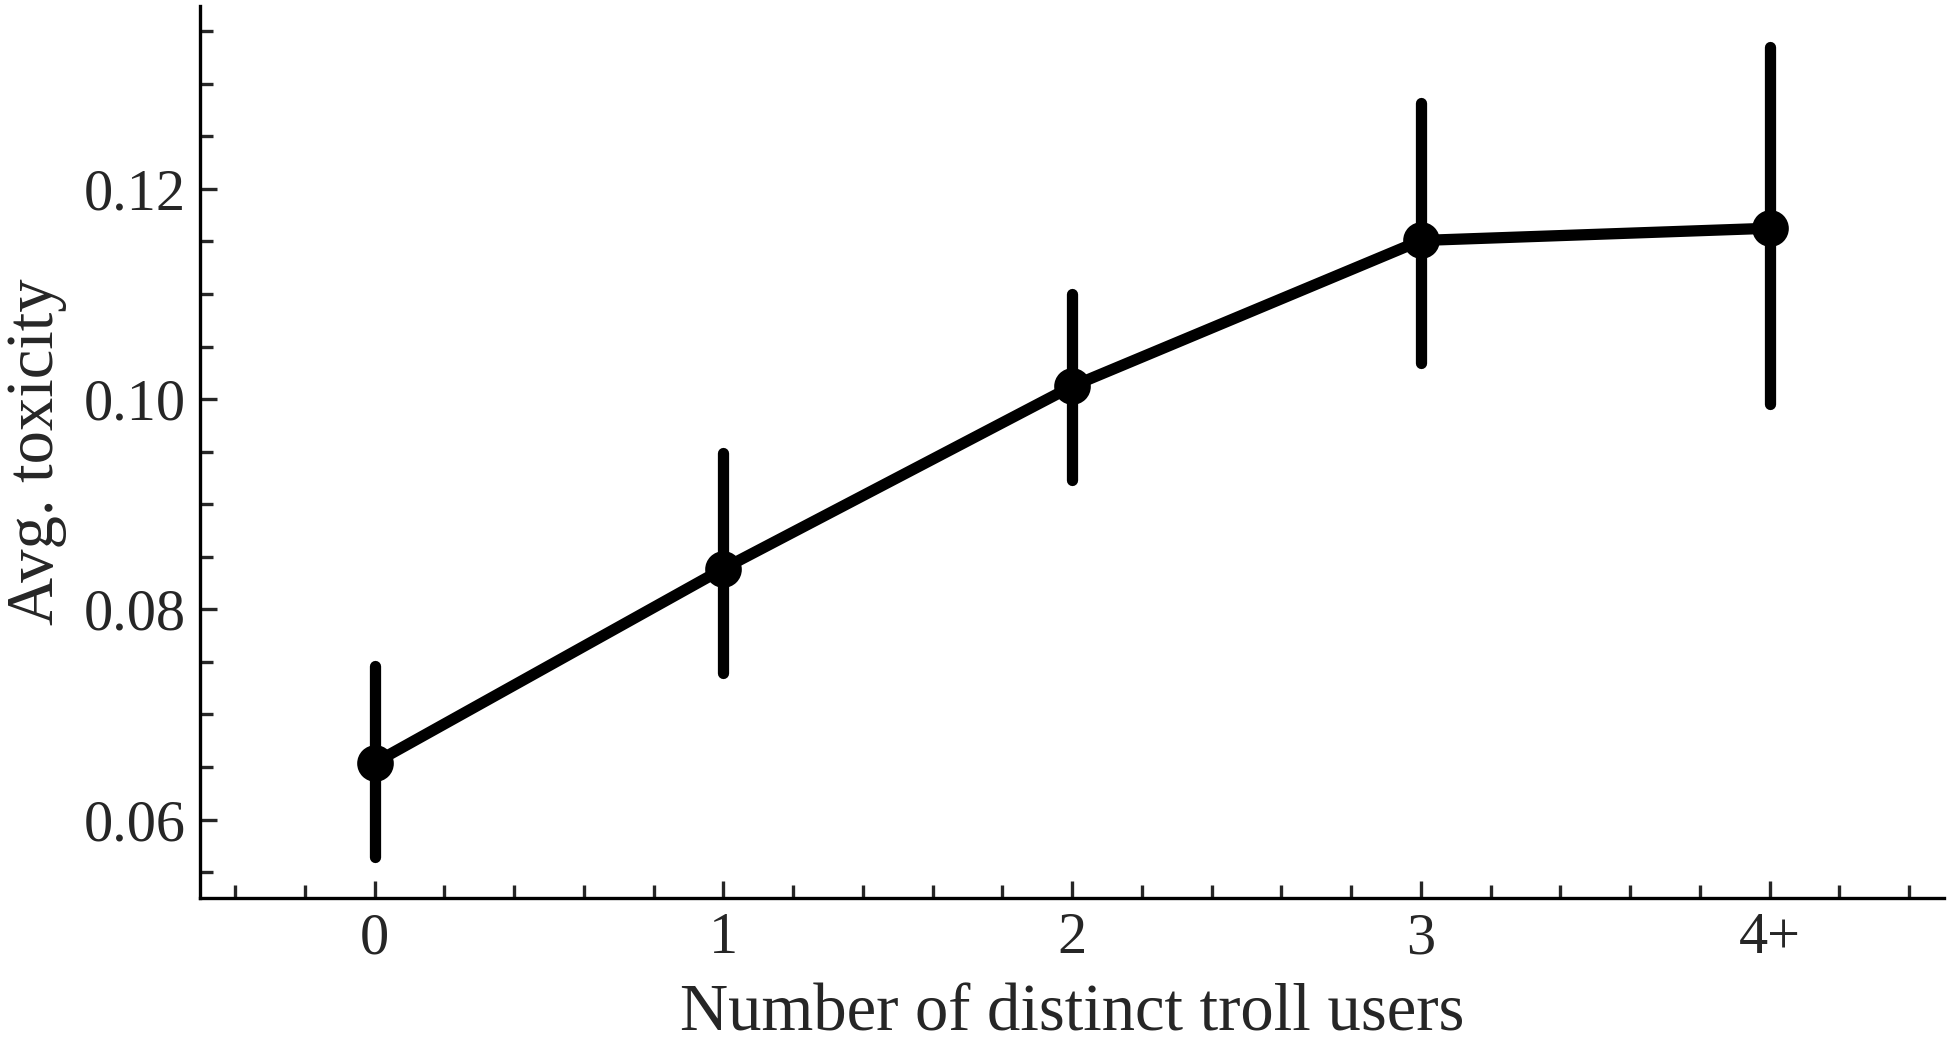
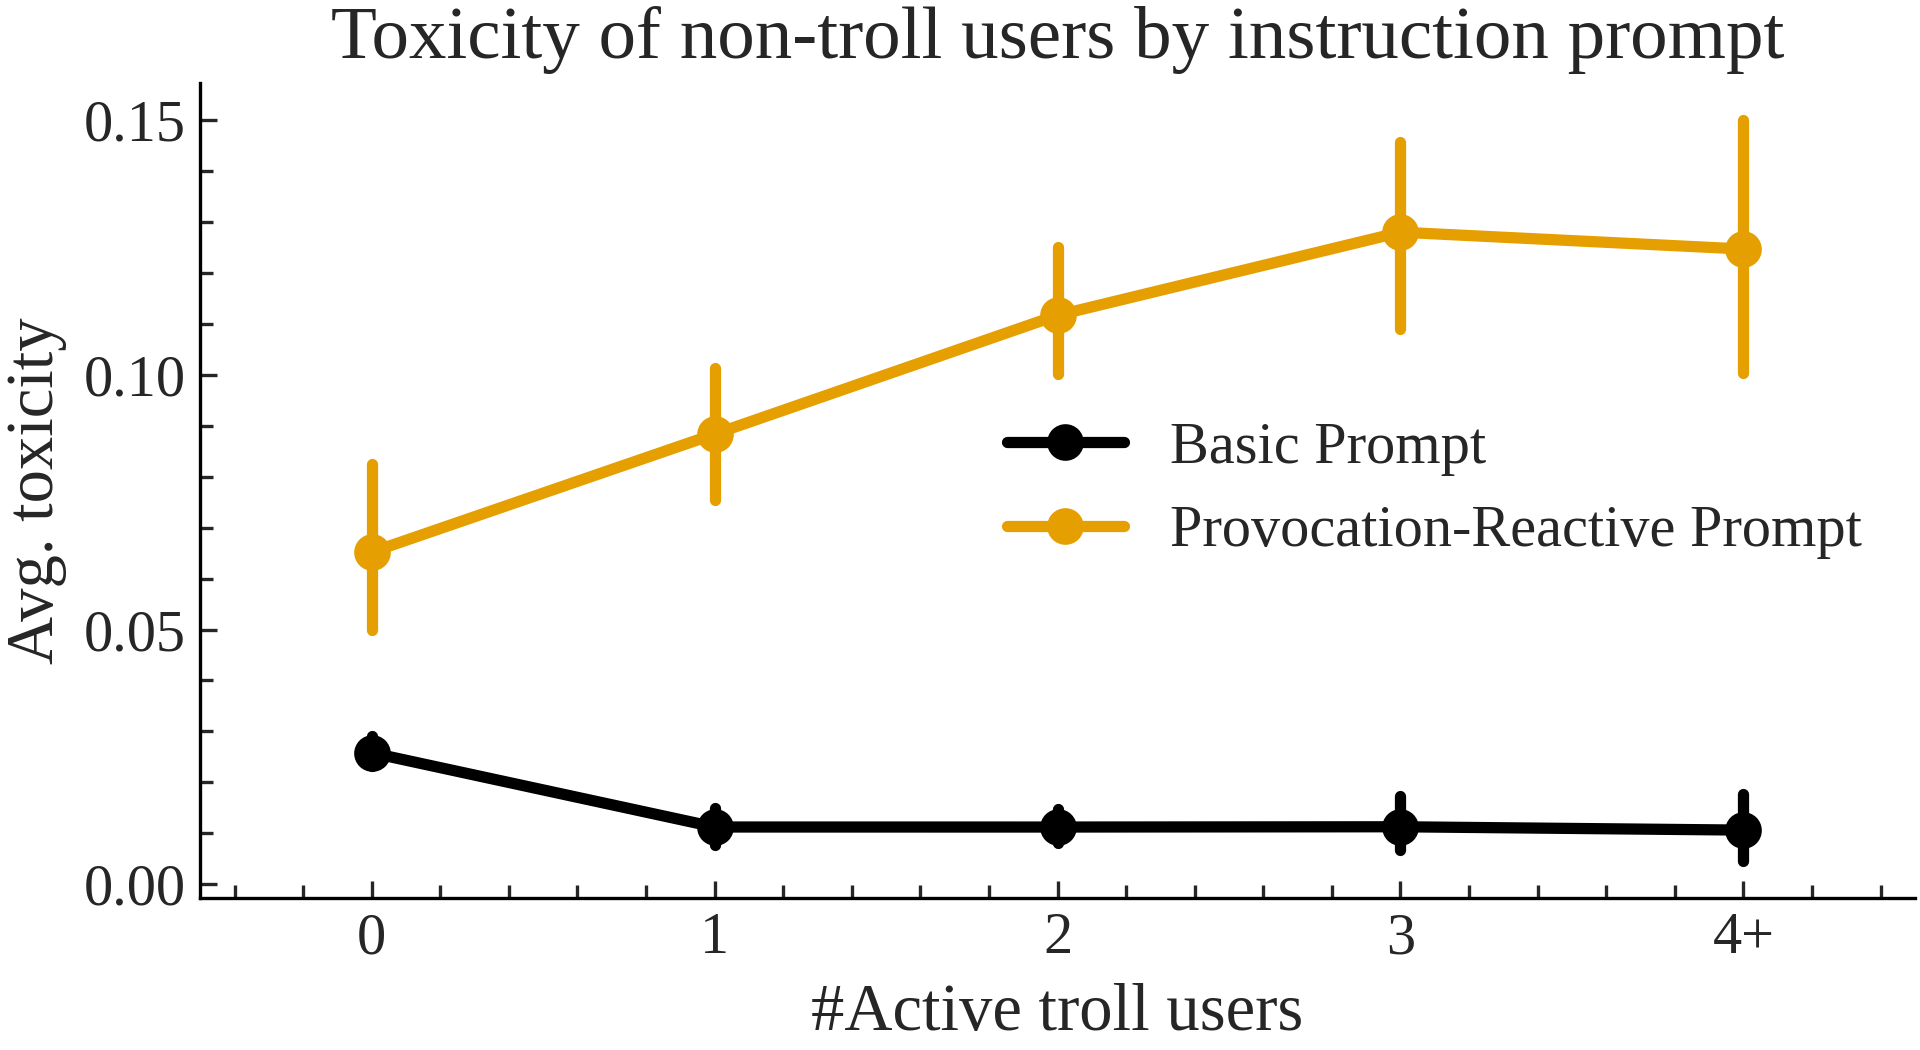
compare no-instructions vs. normal instructions users

diff --git a/src/eval_toxicity.py b/src/eval_toxicity.py
@@ -32,6 +32,21 @@ def main(main_output_dir: Path, toxicity_ratings_dir: Path, graph_dir: Path):
         main_df_path=main_output_dir / "ablation.csv",
         toxicity_df_path=toxicity_ratings_dir / "ablation.csv",
     )
+
+    # Keep only rows where prompt does NOT contain "strong opinions"
+    # aka where instruction prompt is no_instructions.txt
+    ablation_raw = pd.read_csv(main_output_dir / "ablation.csv")
+    valid_ids = ablation_raw.loc[
+        ~ablation_raw.prompt.str.contains(
+            "strong opinions", case=False, na=False
+        ),
+        "message_id",
+    ]
+    
+    ablation_df = ablation_df[ablation_df.message_id.isin(valid_ids)]
+    ablation_df["dataset"] = "Basic Prompt"
+    df["dataset"] = "Provocation-Reactive Prompt"
+
     full_df = pd.concat([df, ablation_df], ignore_index=True)
     toxicity_vs_troll_count(df=full_df, graph_dir=graph_dir)
 
@@ -120,19 +135,17 @@ def toxicity_regression(df: pd.DataFrame, graph_dir: Path) -> None:
 
 
 def toxicity_vs_troll_count(df: pd.DataFrame, graph_dir: Path) -> None:
-    # Non-troll, non-moderator messages
     non_troll_df = df.loc[(~df.is_troll) & (~df.is_moderator)]
 
     avg_toxicity = (
-        non_troll_df.groupby("conv_id")["toxicity"]
+        non_troll_df.groupby(["conv_id", "dataset"])["toxicity"]
         .mean()
         .rename("avg_non_troll_toxicity")
     )
 
-    # Count distinct troll users per conversation
     troll_counts = (
         df.loc[df.is_troll]
-        .groupby("conv_id")["user"]
+        .groupby(["conv_id", "dataset"])["user"]
         .nunique()
         .rename("n_distinct_trolls")
     )
@@ -140,14 +153,11 @@ def toxicity_vs_troll_count(df: pd.DataFrame, graph_dir: Path) -> None:
     plot_df = (
         pd.concat([avg_toxicity, troll_counts], axis=1).fillna(0).reset_index()
     )
+
     plot_df["troll_bin"] = plot_df["n_distinct_trolls"].clip(upper=4)
     plot_df["troll_bin"] = (
-        plot_df["troll_bin"]
-        .astype(int)
-        .astype(str)
-        .apply(lambda x: x if x != "4" else "4+")
+        plot_df["troll_bin"].astype(int).astype(str).replace({"4": "4+"})
     )
-    print(plot_df.troll_bin.unique())
 
     plot_toxicity_vs_trolls(plot_df, graph_dir)
 
@@ -160,12 +170,15 @@ def plot_toxicity_vs_trolls(plot_df: pd.DataFrame, graph_dir: Path) -> None:
         x="troll_bin",
         order=["0", "1", "2", "3", "4+"],
         y="avg_non_troll_toxicity",
+        hue="dataset",
         estimator=np.mean,
         errorbar=("ci", 95),
     )
 
-    ax.set_xlabel("Number of distinct troll users")
+    ax.set_title("Toxicity of non-troll users by instruction prompt")
+    ax.set_xlabel("#Active troll users")
     ax.set_ylabel("Avg. toxicity")
+    ax.legend(title="")
 
     plt.tight_layout()
     tasks.graphs.save_plot(graph_dir / "toxicity_vs_troll_count.png")
